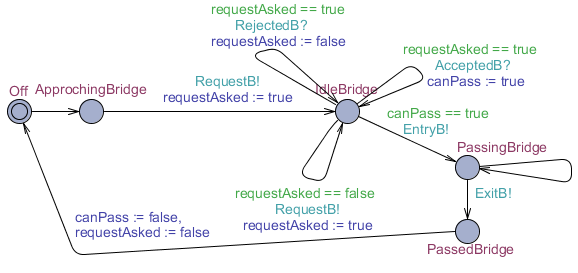
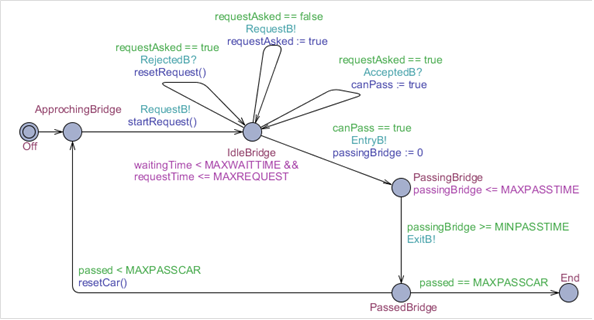
refonte de la 1ere partie

Changed region(s): [[0.0, 0.0, 0.9965, 0.9963], [0.0623, 0.5861, 0.0934, 0.7326], [0.4671, 0.4396, 0.4983, 0.4689]]

diff --git a/index.html b/index.html
@@ -6,9 +6,9 @@
     <meta http-equiv="X-UA-Compatible" content="chrome=1">
     <meta name="description" content="LOG670.TP2 : Laboratoire 2 en Langages formels et semi-formels">
 
-	<link rel="stylesheet" href="/stylesheets/github.css">
     <link rel="stylesheet" type="text/css" media="screen" href="stylesheets/stylesheet.css">
-	<script src="/javascripts/highlight.pack.js"></script>
+	<link rel="stylesheet" href="stylesheets/github.css">
+	<script src="javascripts/highlight.pack.js"></script>
 	<script>hljs.initHighlightingOnLoad();</script>
 
     <title>LOG670.TP2</title>
@@ -48,108 +48,123 @@
 
 	  <h3><a id="partie1" class="anchor" href="#partie1" aria-hidden="true"><span class="octicon octicon-link"></span></a>Première partie</h3>
 	  
-	  <h4><a id="etats_justifies" class="anchor" href="#etats_justifies" aria-hidden="true"><span class="octicon octicon-link"></span></a>Objets</h4>
+	  <h4><a id="partie1" class="anchor" href="#partie1" aria-hidden="true"><span class="octicon octicon-link"></span></a>Modélisation des composants VAA et VAB</h4>
+
+	  <p>Dans le modèle présent, la voiture automatisée joue un rôle très important, car ils ont une certaine autonomie à ce qui a trait à se rendre sur le pont. 
+	  En effet, lorsque l’on regarde le modèle, en prenant un véhicule VAA par exemple, il est responsable de demander au contrôleur du pont s’il est en mesure de 
+	  pouvoir traverser le pont. Il va donc traverser le pont s’il obtient l’autorisation du pont. De plus, en regardant le modèle, il devrait, techniquement parlant, 
+	  simplement aller à l’état « End » lorsqu’il a fini de traverser le pont. Cependant, afin de pouvoir simuler un grand nombre de véhicules, il boucle quelques fois 
+	  en revenant à l’état « ApprochingBridge ». De cette façon, il est plus facile de pouvoir simuler un nombre multiple de véhicules qui passent et qui repassent.</p>
 	  
-	  <h5><a id="etats_justifies" class="anchor" href="#etats_justifies" aria-hidden="true"><span class="octicon octicon-link"></span></a>Véhicule A</h5>
-	  
-	  <p>Premièrement, le véhicule s'approche du pont. Par la suite, il demande au controleur s'il peut passer sur le pont et il le fait jusqu'à ce qu'il
-          obtienne une réponse positive de celui-ci. Ensuite, il passe le pont.</p>
+	  <h5><a id="partie1" class="anchor" href="#partie1" aria-hidden="true"><span class="octicon octicon-link"></span></a>VAA</h5>
 	  
 	  <img src="images/VAA.png"></img>
 	  
-	  <h5><a id="etats_justifies" class="anchor" href="#etats_justifies" aria-hidden="true"><span class="octicon octicon-link"></span></a>Véhicule B</h5>
-
-	  <p>Premièrement, le véhicule s'approche du pont. Par la suite, il demande au controleur s'il peut passer sur le pont et il le fait jusqu'à ce qu'il
-          obtienne une réponse positive de celui-ci. Ensuite, il passe le pont.</p>
+	  <h5><a id="partie1" class="anchor" href="#partie1" aria-hidden="true"><span class="octicon octicon-link"></span></a>VAB</h5>
 	  
 	  <img src="images/VAB.png"></img>
 	  
-	  <h5><a id="etats_justifies" class="anchor" href="#etats_justifies" aria-hidden="true"><span class="octicon octicon-link"></span></a>Pont</h5>
-	  
-	  <p>Il ne fait que maintenir l'état de la direction dans lequel le pont fait face, donc en direction de A ou de B.</p>	  
-	  
-	  <img src="images/P.png"></img>
-	  
-	  <h5><a id="etats_justifies" class="anchor" href="#etats_justifies" aria-hidden="true"><span class="octicon octicon-link"></span></a>Controleur</h5>
-	  
-	  <p>Celui-ci prends la première requête qu'il recoit et lui envoit un message comme quoi sa requête est accepté. Les requêtes venant de l'autre coté
-          ne seront pas acceptées tant que le pont ne sera pas vide. Une fois la requête accepté le véhicule choisi entre sur le pont. Les requêtes sont ensuite
-          traitées et le véhicule traverse finalement le pont. Alors, le pont devient libre pour permettre à un autre véhicule de traverser et un conteur garde
-          une piste du nombre de véhicule qui ont traversé.</p>
-	  
-	  <img src="images/CRTL.png"></img>
-	  
-	  <h5><a id="etats_justifies" class="anchor" href="#etats_justifies" aria-hidden="true"><span class="octicon octicon-link"></span></a>Code</h5>
+	  <h4><a id="partie1" class="anchor" href="#partie1" aria-hidden="true"><span class="octicon octicon-link"></span></a>Explications</h4>
+	  <p>La grande différence entre les deux modèles vient du fait qu’ils n’ont pas les mêmes requêtes. Le véhicule A fait des requêtes pour entrer sur le pont par l’entrée A, 
+	  alors que le véhicule B par l’entrée B. Mise à part cette différence, il n’y a aucun changement au modèle.</p>
 
-	  <p>Voici le code utilisé dans les divers objets. On peut facilement remarquer qu'aucune fonction n'a été
-	  nécessaire et que tout c'est fait à partir d'états seulement</p>
-	  
-	  <pre><code>
-// Global declarations
-chan RequestA, AcceptedA, RejectedA, RequestB, AcceptedB, RejectedB, FreeA, FreeB;
-chan EntryA, ExitA, EntryB, ExitB;
-	  
-// VAA
-bool requestAsked := false;
-bool canPass := false;
-	  
-// VAB
-bool requestAsked := false;
-bool canPass := false;
-	  
-// Pont
-	  
-// Controleur
-int firstRequest := 0;
-int carPassed := 0;
+	  <p>Les états possibles pour chaque véhicule automatisé sont les suivants :</p>
+	  <ul>
+	  <li>Off : Le véhicule ne fonctionne pas.</li>
+	  <li>ApprochingBridge : Le véhicule s’approche du pont.</li>
+	  <li>IdleBridge : Le véhicule est arrivé au pont, il demande au contrôleur du pont s’il peut passer. Il vérifie périodiquement s’il peut passer sur le pont. Il faut que le véhicule ne reste pas en attente plus de 200 unités de temps.</li>
+	  <li>PassingBridge : Le véhicule est sur le pont. Il faut que le véhicule ait franchi le pont sous 20 unités de temps.</li>
+	  <li>PassedBridge : Le véhicule a traversé le pont.</li>
+	  <li>End : Le véhicule a terminé son travail.</li>
+	  </ul>
+
+	  <p>Fonctions du modèle :</p>
+	  <pre><code class="c">void resetCar() {
+  canPass := false;
+  requestAsked := false;
+  passed++;
+}
+
+void resetRequest() {
+  requestAsked := false;
+  requestTime := 0;
+}
+
+void startRequest() {
+  requestAsked := true;
+  waitingTime :=0;
+  requestTime := 0;
+}
 	  </code></pre>
+	  
+	  
+	  <h4><a id="partie1" class="anchor" href="#partie1" aria-hidden="true"><span class="octicon octicon-link"></span></a>Modélisation du composant P</h4>
+	  <p>Dans la modélisation présente, le composant P n’existe pas, car le pont n’a aucune intelligence étant donné qu’il s’agit que du matériel. Étant donné 
+	  qu’il n’y a pas d’intelligence sur ce composant, le pont est entièrement pris en charge par le contrôleur du pont, soit le CTRLP.</p>
 
-          <h5><a id="etats_justifies" class="anchor" href="#etats_justifies" aria-hidden="true"><span class="octicon octicon-link"></span></a>Communication</h5>
+	  <h4><a id="partie1" class="anchor" href="#partie1" aria-hidden="true"><span class="octicon octicon-link"></span></a>Modélisation du composant P</h4>
+	  
+	  <img src="images/CTRLP.png"></img>
+	  
+	  <p>Le CTRLP est le cerveau du pont, car il permet d’être le policier qui dirige la circulation. Il ne fait que contrôler le flux du pont en acceptant ou 
+	  en refusant les demandent pour traverser le pont. Étant donné qu’il agit comme un simple contrôleur, il ne maintient pas en mémoire les demandes des véhicules, 
+	  car cette responsabilité provient des véhicules. En considérant ceci, lorsqu’il permet l’accès à un véhicule dans une direction, il ouvre la porte pour cette 
+	  direction laissant passer les véhicules dans ce sens durant 20 unités de temps.</p>
 
-	  <p>Voici un diagramme démontrant les communications entre les objets. L'objet Véhicule B a été omis afin d'allégé la lecture du diagramme et, de plus
-          celui-ci est identique à l'objet Véhicule A.</p>
+	  <p>Les états possibles du CTRLP :</p>
+	  <ul>
+	  <li>WaitingRequest : L’état où le contrôleur attend une requête.</li>
+	  <li>FirstRequest : Le contrôleur traite la première requête reçue depuis qu’il est en attente d’une requête. Il redirige tout de suite vers l’acceptation d’une requête pour commencer une traversée.</li>
+	  <li>AcceptingA : Le contrôleur accepte une requête provenant d’un véhicule à l’entrée A. Il redirige tout de suite vers l’état de véhicule provenant de l’entrée A.</li>
+	  <li>AcceptingB : Le contrôleur accepte une requête provenant d’un véhicule à l’entrée B. Il redirige tout de suite vers l’état de véhicule provenant de l’entrée B.</li>
+	  <li>VehicleFromA : Le contrôleur prend une décision sur les requêtes selon la direction A vers B. Il offre une fenêtre de 20 unités de temps pour les véhicules provenant de A de pouvoir passer sur le pont, suivant le premier véhicule. Lorsqu’il ne reste qu’un seul véhicule et qu’il reçoit le message disant que ce véhicule a traversé, il retourne en attente de requête.</li>
+	  <li>VehicleFromB : Le contrôleur prend une décision sur les requêtes selon la direction B vers A. Il offre une fenêtre de 20 unités de temps pour les véhicules provenant de B de pouvoir passer sur le pont, suivant le premier véhicule. Lorsqu’il ne reste qu’un seul véhicule et qu’il reçoit le message disant que ce véhicule a traversé, il retourne en attente de requête.</li>
+	  <li>ProcessingRequestAA : Il prend la décision d’une requête A alors qu’il est en acceptation de la direction A vers B. Il accepte donc la requête du véhicule A.</li>
+	  <li>ProcessingRequestBA : Il prend la décision d’une requête B alors qu’il est en acceptation de la direction A vers B. Il refuse donc la requête du véhicule B.</li>
+	  <li>ProcessingRequestAB : Il prend la décision d’une requête A alors qu’il est en acceptation de la direction B vers A. Il refuse donc la requête du véhicule A.</li>
+	  <li>ProcessingRequestBB : Il prend la décision d’une requête B alors qu’il est en acceptation de la direction B vers A. Il accepte donc la requête du véhicule B.</li>
+	  </ul>
 
-          <img src="images/comm_part1.png"></img>
+	  <p>Fonctions du modèle :</p>
+	  <pre><code class="c">void endExitA() {
+  carPassed++;
+  carOnBridge--;
+  lastRequest := 1;
+}
 
-          <h4><a id="etats_justifies" class="anchor" href="#etats_justifies" aria-hidden="true"><span class="octicon octicon-link"></span></a>Vérifications</h4>
+void endExitB() {
+  carPassed++;
+  carOnBridge--;
+  lastRequest := 2;
+}
 
-          <ul>
-          	<li>P1 : Il n’y a pas de collision (i.e. deux véhicules circulants en sens inverse) sur le pont.</li>
-          	<li>P2 : Un véhicule qui arrive est certain de passer sur le pont à l’issue d’une durée bornée.</li>
-          </ul>
+void entry() {
+  carOnBridge++;
+  carFlowTime := 0;
+}
+	  </code></pre>
+	  
+	  <h4><a id="partie1" class="anchor" href="#partie1" aria-hidden="true"><span class="octicon octicon-link"></span></a>Assemblage</h4>
+	  
+	  <p>???</p>
+	  
+	  <h4><a id="partie1" class="anchor" href="#partie1" aria-hidden="true"><span class="octicon octicon-link"></span></a>Vérification</h4>
+	  
+	  <p>Procédez à la vérification formelle du modèle pour les propriétés suivantes :</p>
+	  <p>P1 : Il n’y a pas de collision (i.e. deux véhicules circulants en sens inverse) sur le pont.</p>
+	  <pre><code>A[] not ((vehicleB.PassingBridge && vehicleA.PassingBridge) || (vehicleB.PassingBridge && vehicleA2.PassingBridge))</code></pre>
 
-        <!-- <h3>
-<a id="welcome-to-github-pages" class="anchor" href="#welcome-to-github-pages" aria-hidden="true"><span class="octicon octicon-link"></span></a>Welcome to GitHub Pages.</h3>
+	  <p>P2 : Un véhicule qui arrive est certain de passer sur le pont à l’issue d’une durée bornée.</p>
+	  <pre><code>A[] not ((vehicleA.IdleBridge and vehicleA.waitingTime > MAXWAITTIME) || (vehicleA2.IdleBridge and vehicleA2.waitingTime > MAXWAITTIME) || (vehicleB.IdleBridge and vehicleB.waitingTime > MAXWAITTIME))</code></pre>
 
-<p>This automatic page generator is the easiest way to create beautiful pages for all of your projects. Author your page content here using GitHub Flavored Markdown, select a template crafted by a designer, and publish. After your page is generated, you can check out the new branch:</p>
+	  <p>Étant donné que le système est semi-vivant et qu’il est très complexe, le temps d’exécution de ces vérifications prend énormément de temps, d’où le fait de la capture d’écran pour démontrer qu’il a été possible de les valider.</p>
 
-<pre><code>$ cd your_repo_root/repo_name
-$ git fetch origin
-$ git checkout gh-pages
-</code></pre>
-
-<p>If you're using the GitHub for Mac, simply sync your repository and you'll see the new branch.</p>
-
-<h3>
-<a id="designer-templates" class="anchor" href="#designer-templates" aria-hidden="true"><span class="octicon octicon-link"></span></a>Designer Templates</h3>
-
-<p>We've crafted some handsome templates for you to use. Go ahead and continue to layouts to browse through them. You can easily go back to edit your page before publishing. After publishing your page, you can revisit the page generator and switch to another theme. Your Page content will be preserved if it remained markdown format.</p>
-
-<h3>
-<a id="rather-drive-stick" class="anchor" href="#rather-drive-stick" aria-hidden="true"><span class="octicon octicon-link"></span></a>Rather Drive Stick?</h3>
-
-<p>If you prefer to not use the automatic generator, push a branch named <code>gh-pages</code> to your repository to create a page manually. In addition to supporting regular HTML content, GitHub Pages support Jekyll, a simple, blog aware static site generator written by our own Tom Preston-Werner. Jekyll makes it easy to create site-wide headers and footers without having to copy them across every page. It also offers intelligent blog support and other advanced templating features.</p>
-
-<h3>
-<a id="authors-and-contributors" class="anchor" href="#authors-and-contributors" aria-hidden="true"><span class="octicon octicon-link"></span></a>Authors and Contributors</h3>
-
-<p>You can <a href="https://github.com/blog/821" class="user-mention">@mention</a> a GitHub username to generate a link to their profile. The resulting <code>&lt;a&gt;</code> element will link to the contributor's GitHub Profile. For example: In 2007, Chris Wanstrath (<a href="https://github.com/defunkt" class="user-mention">@defunkt</a>), PJ Hyett (<a href="https://github.com/pjhyett" class="user-mention">@pjhyett</a>), and Tom Preston-Werner (<a href="https://github.com/mojombo" class="user-mention">@mojombo</a>) founded GitHub.</p>
-
-<h3>
-<a id="support-or-contact" class="anchor" href="#support-or-contact" aria-hidden="true"><span class="octicon octicon-link"></span></a>Support or Contact</h3>
-
-<p>Having trouble with Pages? Check out the documentation at <a href="https://help.github.com/pages">https://help.github.com/pages</a> or contact <a href="mailto:support@github.com">support@github.com</a> and we’ll help you sort it out.</p>
- -->
+	  <img src="images/verif1.png"></img>
+	  
+	  <h3><a id="partie1" class="anchor" href="#partie1" aria-hidden="true"><span class="octicon octicon-link"></span></a>Deuxième partie</h3>
+	  
+	  <p>TODO</p>
+	  
       </section>
     </div>
 
@@ -160,8 +175,5 @@ $ git checkout gh-pages
         <p>Publié avec <a href="http://pages.github.com">GitHub Pages</a></p>
       </footer>
     </div>
-
-    
-
   </body>
 </html>
